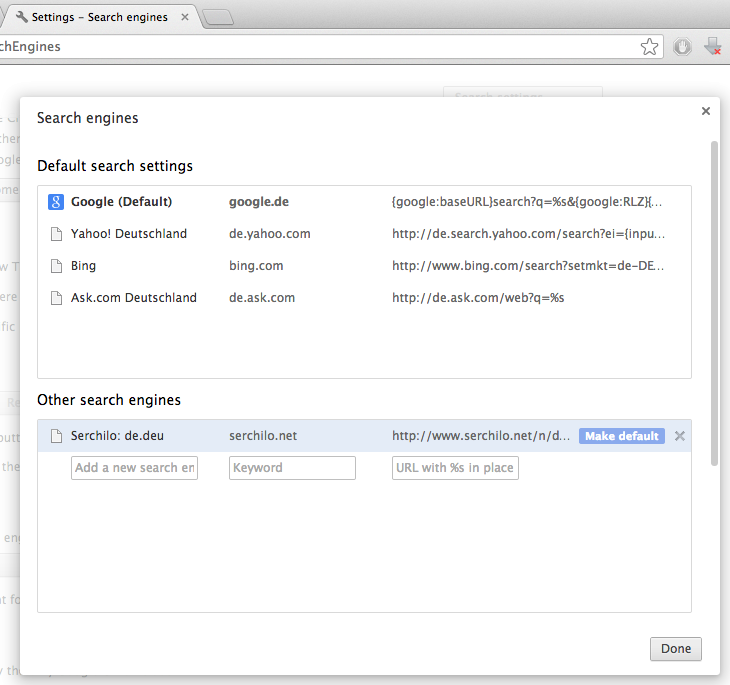
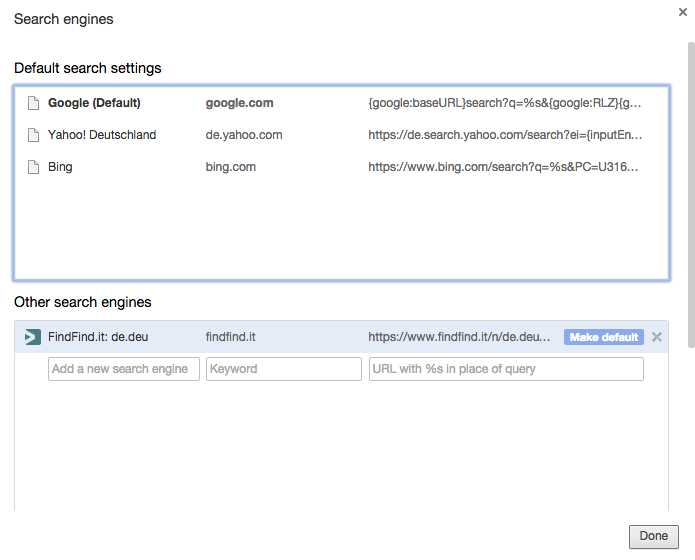
New browser integration via JS, with new Screenshots for FFit.

diff --git a/modules/serchilo/static_content/help/integration/chrome/index.html b/modules/serchilo/static_content/help/integration/chrome/index.html
@@ -12,6 +12,13 @@ title = Chrome
   </li>
 
   <li>
+	<p>In the footer, click on <em>Add to browser</em> (next to Impressum) and confirm.</p>
+
+  <img src="/[static-content:current-dir]/chrome_add_to_browser.png"/>
+
+  </li>
+
+  <li>
   <p>Right click in the address bar and select <em>Edit search engines</em>.</p>
 
   <img src="/[static-content:current-dir]/chrome_right_click_address_bar.png"/>
@@ -20,16 +27,11 @@ title = Chrome
 
   <li>
   <p>In <em>Other search engines</em>, find <em>[site:name]</em>.
-  <p>It may be that <em>[site:name]</em> is missing. In this case, add it there:
-  <ul>
-    <li>Name: [site:name]</li>
-    <li>Keyword: [any you like, for instance <em>s</em>]</li>
-    <li>URL:  [Homepage URL]?query=%s – for instance: [site:url]n/en.usa?query=%s</li>
-  </ul>
-  </p>
+  </li>
+  <li>
   <p>Point your mouse on that (added) line. A button <em>Make default</em> will appear. Click on it.</p>
 
-  <img src="/[static-content:current-dir]/chrome_make_default.png"/>
+  <img style="border: 1px solid black;" src="/[static-content:current-dir]/chrome_make_default.png"/>
 
   </li>
 
